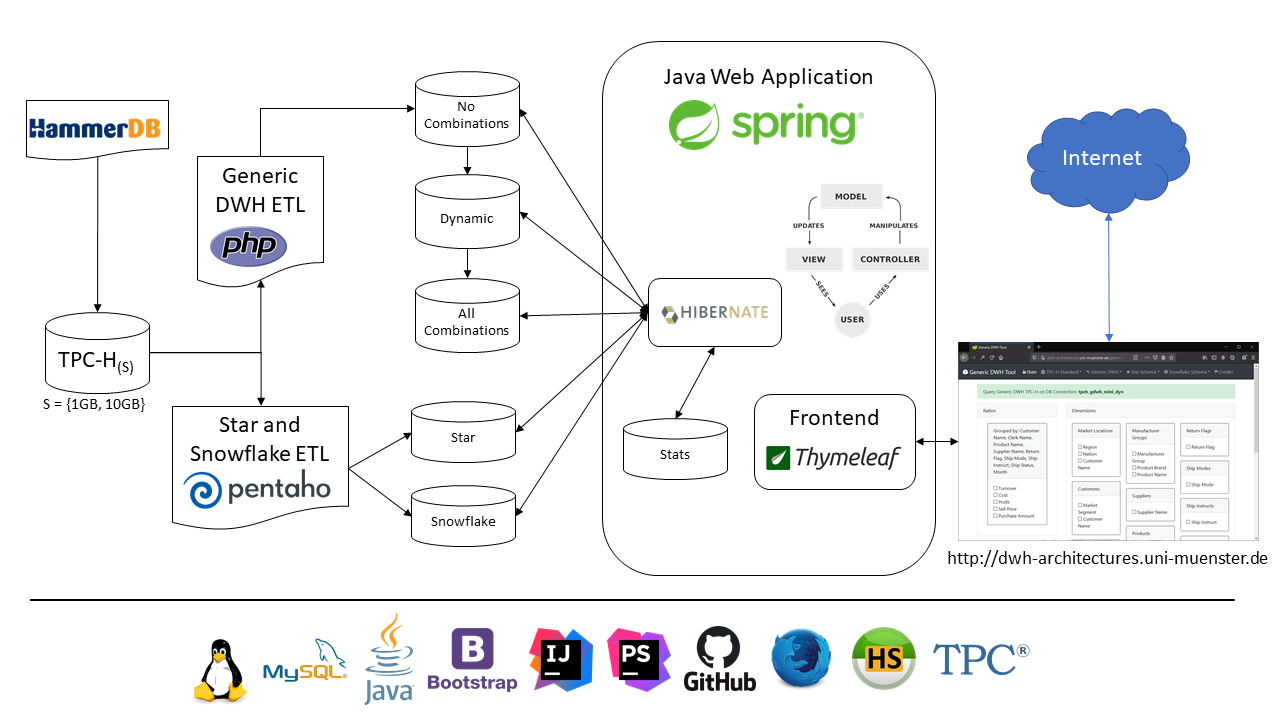
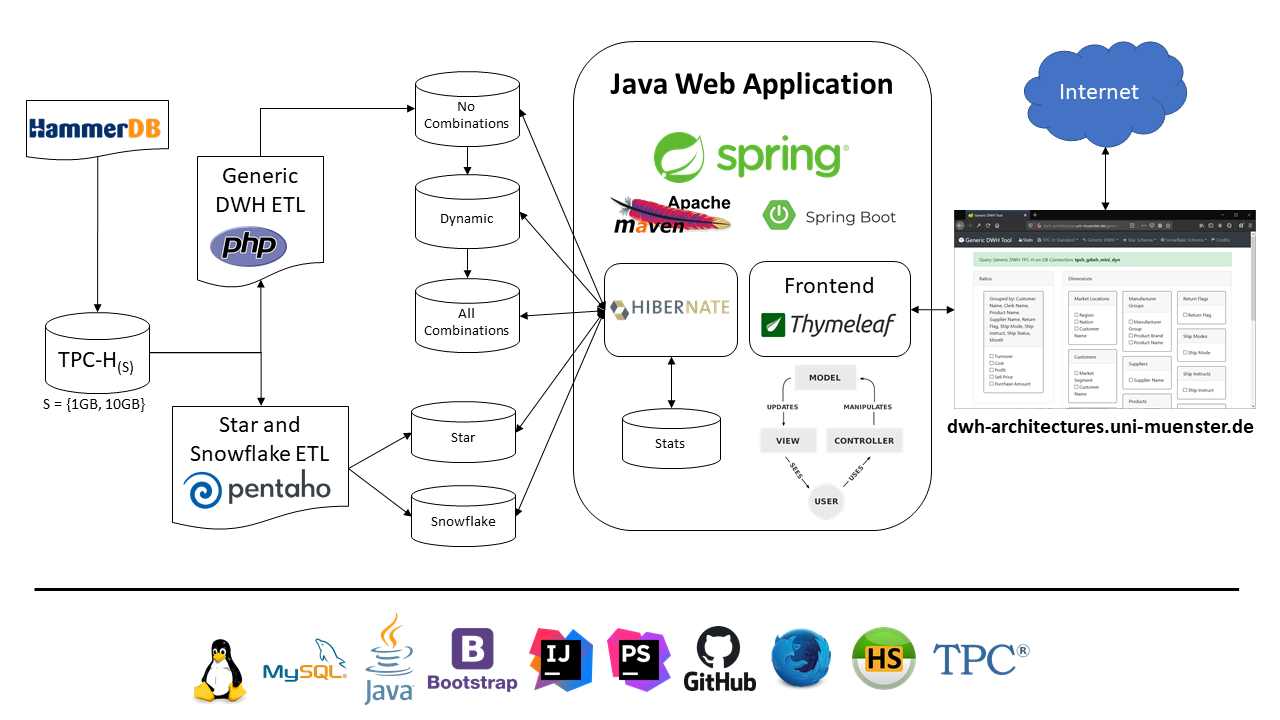
changes on system arch png, fixed typos on fronted

Changed region(s): [[0.0312, 0.0611, 1.0, 0.825], [0.4688, 0.55, 0.5625, 0.6722], [0.6875, 0.0611, 0.7188, 0.0917]]

diff --git a/generic-dwh-web/src/main/resources/templates/star/query.html b/generic-dwh-web/src/main/resources/templates/star/query.html
@@ -37,7 +37,7 @@
                             </div>
                         </div>
                     </div>
-
+                    <br/>
                     <div class="col-sm-6 col-md-8">
                         <div class="card">
                             <div class="card-header">Dimensions</div>
@@ -92,7 +92,7 @@
                                         <div class="card-header" th:text="'Products'" th:id="products"></div>
                                         <div class="card-body">
                                             <input type="checkbox" th:name="dimensionChecked"
-                                                   th:value="p_type" th:text="' Producy Type'"><br/>
+                                                   th:value="p_type" th:text="' Product Type'"><br/>
                                             <input type="checkbox" th:name="dimensionChecked"
                                                    th:value="p_size" th:text="' Product Size'"><br/>
                                             <input type="checkbox" th:name="dimensionChecked"

diff --git a/generic-dwh-web/src/main/resources/templates/index.html b/generic-dwh-web/src/main/resources/templates/index.html
@@ -55,6 +55,7 @@
         <br/>
         <img class="img-thumbnail" src="../static/resources/images/tpch_std_db_schema.png" th:src="@{/resources/images/system_architecture.png}"/>
         <br/>
+        <br/>
         <p>Code available on <a href="https://github.com/pedro911/generic-dwh-app">GitHub</a></p>
 
         <hr class="my-4">

diff --git a/generic-dwh-web/src/main/resources/templates/snowflake/query.html b/generic-dwh-web/src/main/resources/templates/snowflake/query.html
@@ -37,7 +37,7 @@
                             </div>
                         </div>
                     </div>
-
+                    <br/>
                     <div class="col-sm-6 col-md-8">
                         <div class="card">
                             <div class="card-header">Dimensions</div>

diff --git a/generic-dwh-web/src/main/resources/templates/genericdwh/query.html b/generic-dwh-web/src/main/resources/templates/genericdwh/query.html
@@ -41,6 +41,7 @@
                             </div>
                         </div>
                     </div>
+                    <br/>
 
                     <div class="col-sm-6 col-md-8">
                         <div class="card">
